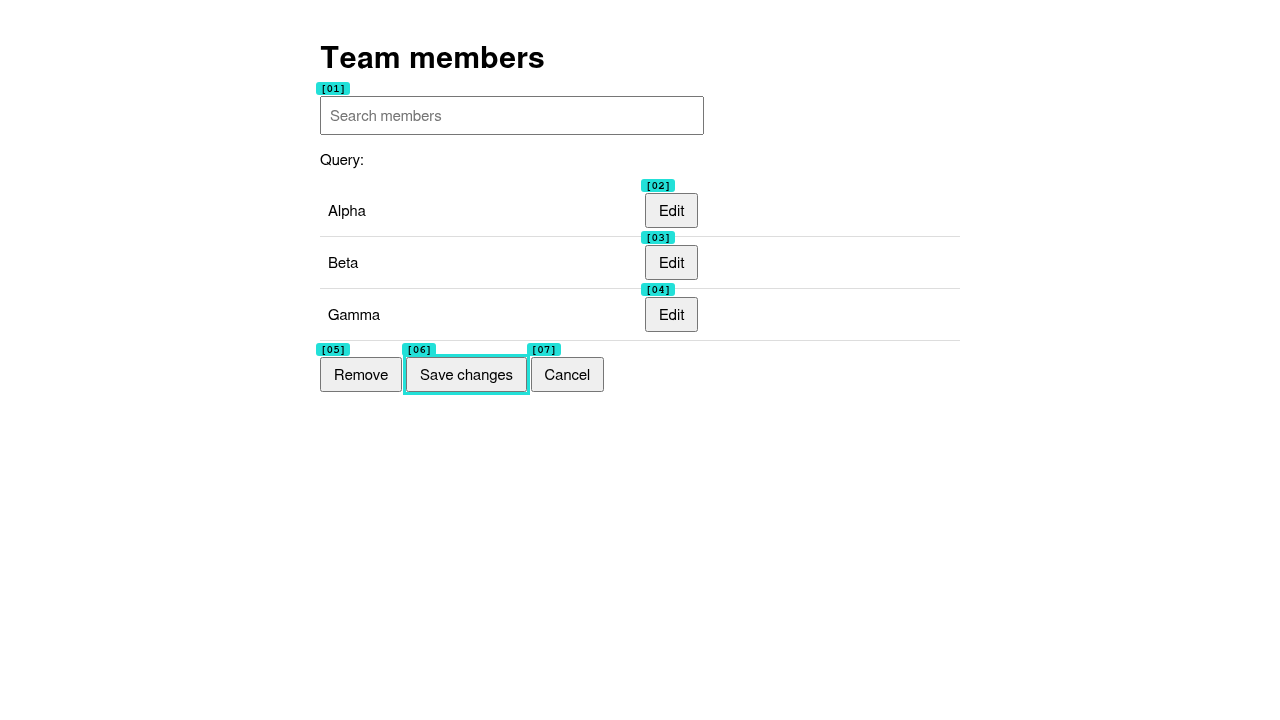
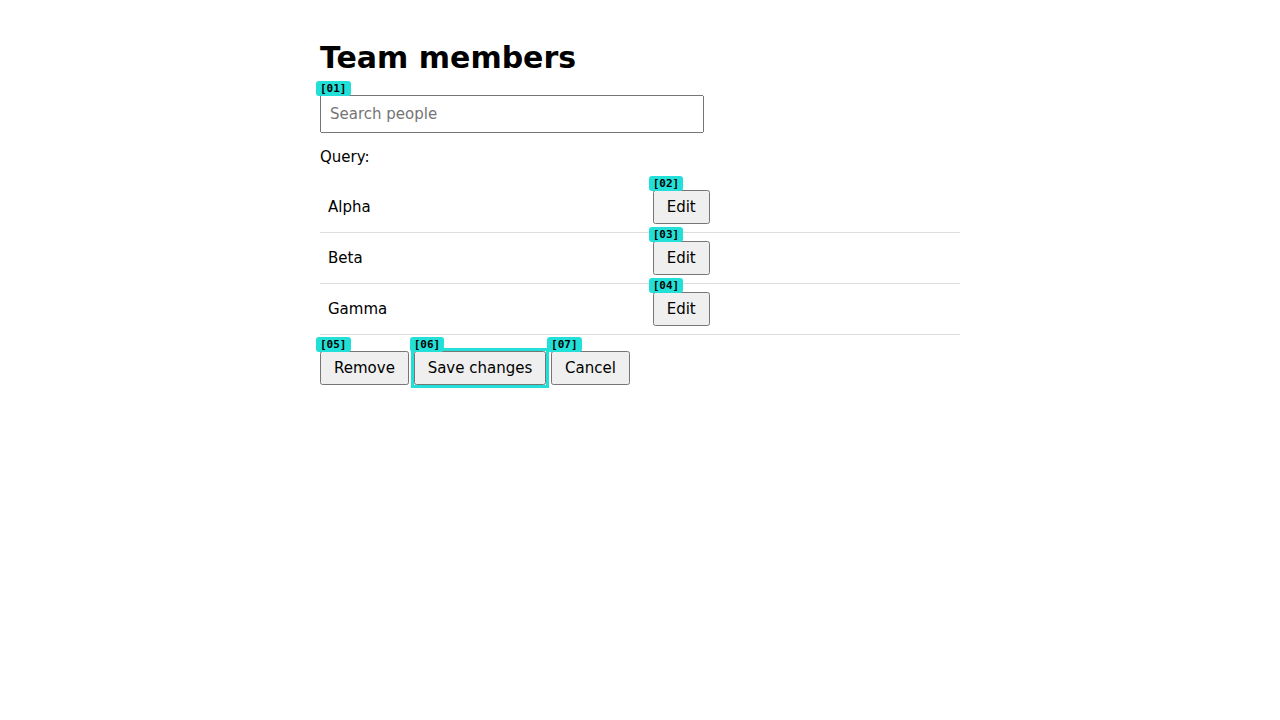
fix(tests): heal 4 stale locator(s) via ZeroDOM

Changed region(s): [[0.25, 0.2444, 0.5625, 0.55], [0.25, 0.0611, 0.4688, 0.2444], [0.25, 0.275, 0.2812, 0.3056]]

diff --git a/tests/admin.spec.ts b/tests/admin.spec.ts
@@ -3,7 +3,7 @@ import { test, expect } from './fixture';
 test.beforeEach(async ({ page }) => { await page.goto('/admin.html'); });
 
 test('saves settings', async ({ page }) => {
-  await page.getByTestId('save-button').click();
+  await page.getByTestId('settings-save').click();
   await expect(page.locator('#toast')).toHaveText('Settings saved');
 });
 
@@ -18,6 +18,6 @@ test('edits the second user', async ({ page }) => {
 });
 
 test('searches members', async ({ page }) => {
-  await page.getByPlaceholder('Search members').fill('beta');
+  await page.getByPlaceholder('Search people').fill('beta');
   await expect(page.locator('#query')).toHaveText('beta');
 });

diff --git a/tests/checkout.spec.ts b/tests/checkout.spec.ts
@@ -3,6 +3,6 @@ import { test, expect } from './fixture';
 test('checkout places an order', async ({ page }) => {
   await page.goto('/');
   await page.locator('input.field--email').fill('dev@acme.io');
-  await page.locator('#place-order').click();
+  await page.locator('#checkout-submit').click();
   await expect(page.locator('#status')).toHaveText('Order placed');
 });

diff --git a/tests/nav.spec.ts b/tests/nav.spec.ts
@@ -2,6 +2,6 @@ import { test, expect } from './fixture';
 
 test('cart link opens the cart', async ({ page }) => {
   await page.goto('/');
-  await page.locator('a.nav-link--cart').click();
+  await page.locator('a.nav__cart').click();
   await expect(page.locator('h1')).toHaveText('Your cart');
 });

diff --git a/relocate-proof/PR.md b/relocate-proof/PR.md
@@ -1,187 +1,81 @@
-## 🩹 Relocate: healed 12/12 stale locator(s)
+## 🩹 Relocate: healed 4/4 stale locator(s)
 
 | Test | Old selector | ZeroDOM handle | New selector | Similarity | Before | After |
 |---|---|---|---|---|---|---|
-| `tests/admin.spec.ts:6` | `getByTestId('save-btn')` | `[node_06]` | `getByTestId('save-button')` | 0.36 | ❌ FAIL | ✅ PASS |
-| `tests/admin.spec.ts:11` | `getByRole('button', { name: 'Delete' })` | `[node_05]` | `getByRole('button', { name: 'Remove' })` | 0.42 | ❌ FAIL | ✅ PASS |
-| `tests/admin.spec.ts:16` | `#user-2 .edit-btn` | `[node_03]` | `locator('tr').filter({ hasText: 'Beta' }).getByRole('button', { name: 'Edit' })` | 0.38 | ❌ FAIL | ✅ PASS |
-| `tests/admin.spec.ts:21` | `getByPlaceholder('Search users')` | `[node_01]` | `getByPlaceholder('Search members')` | 0.36 | ❌ FAIL | ✅ PASS |
-| `tests/checkout.spec.ts:6` | `button#submit-v1` | `[node_06]` | `locator('#place-order')` | 0.58 | ❌ FAIL | ✅ PASS |
-| `tests/nav.spec.ts:5` | `nav > a.cart-link` | `[node_02]` | `locator('a.nav-link--cart')` | 0.73 | ❌ FAIL | ✅ PASS |
-| `tests/promo.spec.ts:5` | `input.promo-input` | `[node_04]` | `locator('input[name="promo"]')` | 0.45 | ❌ FAIL | ✅ PASS |
-| `tests/spa.spec.ts:6` | `button._primary_DzAMk` | `[node_08]` | `getByRole('button', { name: 'Save changes' })` | 0.25 | ❌ FAIL | ✅ PASS |
-| `tests/spa.spec.ts:11` | `getByRole('button', { name: 'Delete member' })` | `[node_05]` | `getByRole('button', { name: 'Remove from team' })` | 0.46 | ❌ FAIL | ✅ PASS |
-| `tests/spa.spec.ts:17` | `getByTestId('invite-submit')` | `[node_07]` | `getByTestId('invite-form-send')` | 0.3 | ❌ FAIL | ✅ PASS |
-| `tests/spa.spec.ts:22` | `#member-2 .edit` | `[node_03]` | `locator('li').filter({ hasText: 'Beta' }).getByRole('button', { name: 'Edit' })` | 0.45 | ❌ FAIL | ✅ PASS |
-| `tests/spa.spec.ts:27` | `getByPlaceholder('Search members')` | `[node_01]` | `getByPlaceholder('Find a teammate')` | 0.2 | ❌ FAIL | ✅ PASS |
+| `tests/admin.spec.ts:6` | `getByTestId('save-button')` | `[node_06]` | `getByTestId('settings-save')` | 0.55 | ❌ FAIL | ✅ PASS |
+| `tests/admin.spec.ts:21` | `getByPlaceholder('Search members')` | `[node_01]` | `getByPlaceholder('Search people')` | 0.3 | ❌ FAIL | ✅ PASS |
+| `tests/checkout.spec.ts:6` | `#place-order` | `[node_06]` | `locator('#checkout-submit')` | 0.64 | ❌ FAIL | ✅ PASS |
+| `tests/nav.spec.ts:5` | `a.nav-link--cart` | `[node_02]` | `locator('a.nav__cart')` | 0.55 | ❌ FAIL | ✅ PASS |
 
 Only locator literals changed; no assertions, expectations or test logic touched (GATE-04).
 
 ### #1 saves settings
 | Failure (ZeroDOM badges) | Healed |
 |---|---|
-| ![](https://github.com/DevHusnainAi/relocate/blob/relocate/heal-1790423615083/relocate-proof/1-failure_proof.png?raw=true) | ![](https://github.com/DevHusnainAi/relocate/blob/relocate/heal-1790423615083/relocate-proof/1-healed_proof.png?raw=true) |
+| ![](https://github.com/DevHusnainAi/relocate/blob/relocate/heal-1790442535760/relocate-proof/1-failure_proof.png?raw=true) | ![](https://github.com/DevHusnainAi/relocate/blob/relocate/heal-1790442535760/relocate-proof/1-healed_proof.png?raw=true) |
 
-### #2 deletes the last user
+### #2 searches members
 | Failure (ZeroDOM badges) | Healed |
 |---|---|
-| ![](https://github.com/DevHusnainAi/relocate/blob/relocate/heal-1790423615083/relocate-proof/2-failure_proof.png?raw=true) | ![](https://github.com/DevHusnainAi/relocate/blob/relocate/heal-1790423615083/relocate-proof/2-healed_proof.png?raw=true) |
+| ![](https://github.com/DevHusnainAi/relocate/blob/relocate/heal-1790442535760/relocate-proof/2-failure_proof.png?raw=true) | ![](https://github.com/DevHusnainAi/relocate/blob/relocate/heal-1790442535760/relocate-proof/2-healed_proof.png?raw=true) |
 
-### #3 edits the second user
+### #3 checkout places an order
 | Failure (ZeroDOM badges) | Healed |
 |---|---|
-| ![](https://github.com/DevHusnainAi/relocate/blob/relocate/heal-1790423615083/relocate-proof/3-failure_proof.png?raw=true) | ![](https://github.com/DevHusnainAi/relocate/blob/relocate/heal-1790423615083/relocate-proof/3-healed_proof.png?raw=true) |
+| ![](https://github.com/DevHusnainAi/relocate/blob/relocate/heal-1790442535760/relocate-proof/3-failure_proof.png?raw=true) | ![](https://github.com/DevHusnainAi/relocate/blob/relocate/heal-1790442535760/relocate-proof/3-healed_proof.png?raw=true) |
 
-### #4 searches members
+### #4 cart link opens the cart
 | Failure (ZeroDOM badges) | Healed |
 |---|---|
-| ![](https://github.com/DevHusnainAi/relocate/blob/relocate/heal-1790423615083/relocate-proof/4-failure_proof.png?raw=true) | ![](https://github.com/DevHusnainAi/relocate/blob/relocate/heal-1790423615083/relocate-proof/4-healed_proof.png?raw=true) |
-
-### #5 checkout places an order
-| Failure (ZeroDOM badges) | Healed |
-|---|---|
-| ![](https://github.com/DevHusnainAi/relocate/blob/relocate/heal-1790423615083/relocate-proof/5-failure_proof.png?raw=true) | ![](https://github.com/DevHusnainAi/relocate/blob/relocate/heal-1790423615083/relocate-proof/5-healed_proof.png?raw=true) |
-
-### #6 cart link opens the cart
-| Failure (ZeroDOM badges) | Healed |
-|---|---|
-| ![](https://github.com/DevHusnainAi/relocate/blob/relocate/heal-1790423615083/relocate-proof/6-failure_proof.png?raw=true) | ![](https://github.com/DevHusnainAi/relocate/blob/relocate/heal-1790423615083/relocate-proof/6-healed_proof.png?raw=true) |
-
-### #7 promo code is accepted
-| Failure (ZeroDOM badges) | Healed |
-|---|---|
-| ![](https://github.com/DevHusnainAi/relocate/blob/relocate/heal-1790423615083/relocate-proof/7-failure_proof.png?raw=true) | ![](https://github.com/DevHusnainAi/relocate/blob/relocate/heal-1790423615083/relocate-proof/7-healed_proof.png?raw=true) |
-
-### #8 saves team settings
-| Failure (ZeroDOM badges) | Healed |
-|---|---|
-| ![](https://github.com/DevHusnainAi/relocate/blob/relocate/heal-1790423615083/relocate-proof/8-failure_proof.png?raw=true) | ![](https://github.com/DevHusnainAi/relocate/blob/relocate/heal-1790423615083/relocate-proof/8-healed_proof.png?raw=true) |
-
-### #9 removes the last member
-| Failure (ZeroDOM badges) | Healed |
-|---|---|
-| ![](https://github.com/DevHusnainAi/relocate/blob/relocate/heal-1790423615083/relocate-proof/9-failure_proof.png?raw=true) | ![](https://github.com/DevHusnainAi/relocate/blob/relocate/heal-1790423615083/relocate-proof/9-healed_proof.png?raw=true) |
-
-### #10 sends an invite
-| Failure (ZeroDOM badges) | Healed |
-|---|---|
-| ![](https://github.com/DevHusnainAi/relocate/blob/relocate/heal-1790423615083/relocate-proof/10-failure_proof.png?raw=true) | ![](https://github.com/DevHusnainAi/relocate/blob/relocate/heal-1790423615083/relocate-proof/10-healed_proof.png?raw=true) |
-
-### #11 edits the second member
-| Failure (ZeroDOM badges) | Healed |
-|---|---|
-| ![](https://github.com/DevHusnainAi/relocate/blob/relocate/heal-1790423615083/relocate-proof/11-failure_proof.png?raw=true) | ![](https://github.com/DevHusnainAi/relocate/blob/relocate/heal-1790423615083/relocate-proof/11-healed_proof.png?raw=true) |
-
-### #12 filters members
-| Failure (ZeroDOM badges) | Healed |
-|---|---|
-| ![](https://github.com/DevHusnainAi/relocate/blob/relocate/heal-1790423615083/relocate-proof/12-failure_proof.png?raw=true) | ![](https://github.com/DevHusnainAi/relocate/blob/relocate/heal-1790423615083/relocate-proof/12-healed_proof.png?raw=true) |
+| ![](https://github.com/DevHusnainAi/relocate/blob/relocate/heal-1790442535760/relocate-proof/4-failure_proof.png?raw=true) | ![](https://github.com/DevHusnainAi/relocate/blob/relocate/heal-1790442535760/relocate-proof/4-healed_proof.png?raw=true) |
 
 <details><summary>Diff</summary>
 
 ```diff
 diff --git a/tests/admin.spec.ts b/tests/admin.spec.ts
-index e4b4695..2e2dad6 100644
+index 2e2dad6..1854e7f 100644
 --- a/tests/admin.spec.ts
 +++ b/tests/admin.spec.ts
-@@ -3,21 +3,21 @@ import { test, expect } from './fixture';
+@@ -3,7 +3,7 @@ import { test, expect } from './fixture';
  test.beforeEach(async ({ page }) => { await page.goto('/admin.html'); });
  
  test('saves settings', async ({ page }) => {
--  await page.getByTestId('save-btn').click();
-+  await page.getByTestId('save-button').click();
+-  await page.getByTestId('save-button').click();
++  await page.getByTestId('settings-save').click();
    await expect(page.locator('#toast')).toHaveText('Settings saved');
  });
  
- test('deletes the last user', async ({ page }) => {
--  await page.getByRole('button', { name: 'Delete' }).click();
-+  await page.getByRole('button', { name: 'Remove' }).click();
-   await expect(page.locator('#toast')).toHaveText('User removed');
- });
- 
- test('edits the second user', async ({ page }) => {
--  await page.locator('#user-2 .edit-btn').click();
-+  await page.locator('tr').filter({ hasText: 'Beta' }).getByRole('button', { name: 'Edit' }).click();
-   await expect(page.locator('#editing')).toHaveText('Editing Beta');
+@@ -18,6 +18,6 @@ test('edits the second user', async ({ page }) => {
  });
  
  test('searches members', async ({ page }) => {
--  await page.getByPlaceholder('Search users').fill('beta');
-+  await page.getByPlaceholder('Search members').fill('beta');
+-  await page.getByPlaceholder('Search members').fill('beta');
++  await page.getByPlaceholder('Search people').fill('beta');
    await expect(page.locator('#query')).toHaveText('beta');
  });
 diff --git a/tests/checkout.spec.ts b/tests/checkout.spec.ts
-index 04fe425..8d97b34 100644
+index 8d97b34..b9bef1e 100644
 --- a/tests/checkout.spec.ts
 +++ b/tests/checkout.spec.ts
 @@ -3,6 +3,6 @@ import { test, expect } from './fixture';
  test('checkout places an order', async ({ page }) => {
    await page.goto('/');
    await page.locator('input.field--email').fill('dev@acme.io');
--  await page.locator('button#submit-v1').click();
-+  await page.locator('#place-order').click();
+-  await page.locator('#place-order').click();
++  await page.locator('#checkout-submit').click();
    await expect(page.locator('#status')).toHaveText('Order placed');
  });
 diff --git a/tests/nav.spec.ts b/tests/nav.spec.ts
-index 8d9f7aa..c83554c 100644
+index c83554c..864f59d 100644
 --- a/tests/nav.spec.ts
 +++ b/tests/nav.spec.ts
 @@ -2,6 +2,6 @@ import { test, expect } from './fixture';
  
  test('cart link opens the cart', async ({ page }) => {
    await page.goto('/');
--  await page.locator('nav > a.cart-link').click();
-+  await page.locator('a.nav-link--cart').click();
+-  await page.locator('a.nav-link--cart').click();
++  await page.locator('a.nav__cart').click();
    await expect(page.locator('h1')).toHaveText('Your cart');
- });
-diff --git a/tests/promo.spec.ts b/tests/promo.spec.ts
-index 50935c0..67f4d54 100644
---- a/tests/promo.spec.ts
-+++ b/tests/promo.spec.ts
-@@ -2,6 +2,6 @@ import { test, expect } from './fixture';
- 
- test('promo code is accepted', async ({ page }) => {
-   await page.goto('/');
--  await page.locator('input.promo-input').fill('SAVE10');
-+  await page.locator('input[name="promo"]').fill('SAVE10');
-   await expect(page.locator('input[name=promo]')).toHaveValue('SAVE10');
- });
-diff --git a/tests/spa.spec.ts b/tests/spa.spec.ts
-index e3dbffd..e30bbe6 100644
---- a/tests/spa.spec.ts
-+++ b/tests/spa.spec.ts
-@@ -3,27 +3,27 @@ import { test, expect } from './fixture';
- test.beforeEach(async ({ page }) => { await page.goto('/spa/'); });
- 
- test('saves team settings', async ({ page }) => {
--  await page.locator('button._primary_DzAMk').click();
-+  await page.getByRole('button', { name: 'Save changes' }).click();
-   await expect(page.locator('#toast')).toHaveText('Settings saved');
- });
- 
- test('removes the last member', async ({ page }) => {
--  await page.getByRole('button', { name: 'Delete member' }).click();
-+  await page.getByRole('button', { name: 'Remove from team' }).click();
-   await expect(page.locator('#toast')).toHaveText('Member removed');
- });
- 
- test('sends an invite', async ({ page }) => {
-   await page.locator('input[type=email]').fill('new@acme.io');
--  await page.getByTestId('invite-submit').click();
-+  await page.getByTestId('invite-form-send').click();
-   await expect(page.locator('#toast')).toHaveText('Invite sent');
- });
- 
- test('edits the second member', async ({ page }) => {
--  await page.locator('#member-2 .edit').click();
-+  await page.locator('li').filter({ hasText: 'Beta' }).getByRole('button', { name: 'Edit' }).click();
-   await expect(page.locator('#editing')).toHaveText('Editing Beta');
- });
- 
- test('filters members', async ({ page }) => {
--  await page.getByPlaceholder('Search members').fill('bet');
-+  await page.getByPlaceholder('Find a teammate').fill('bet');
-   await expect(page.locator('#query')).toHaveText('bet');
  });
 ```
 </details>
